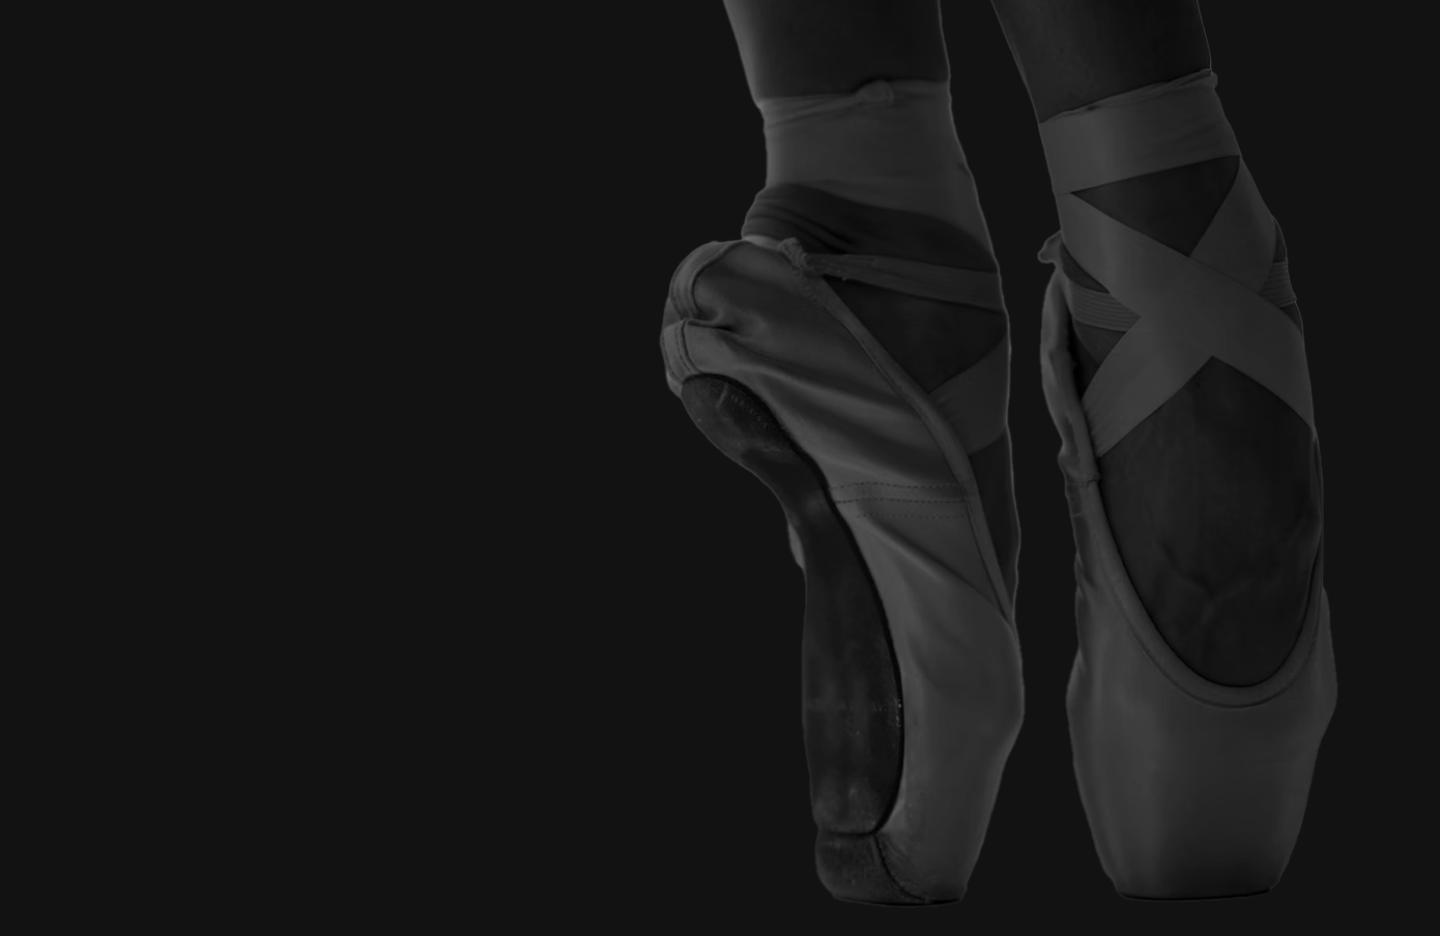
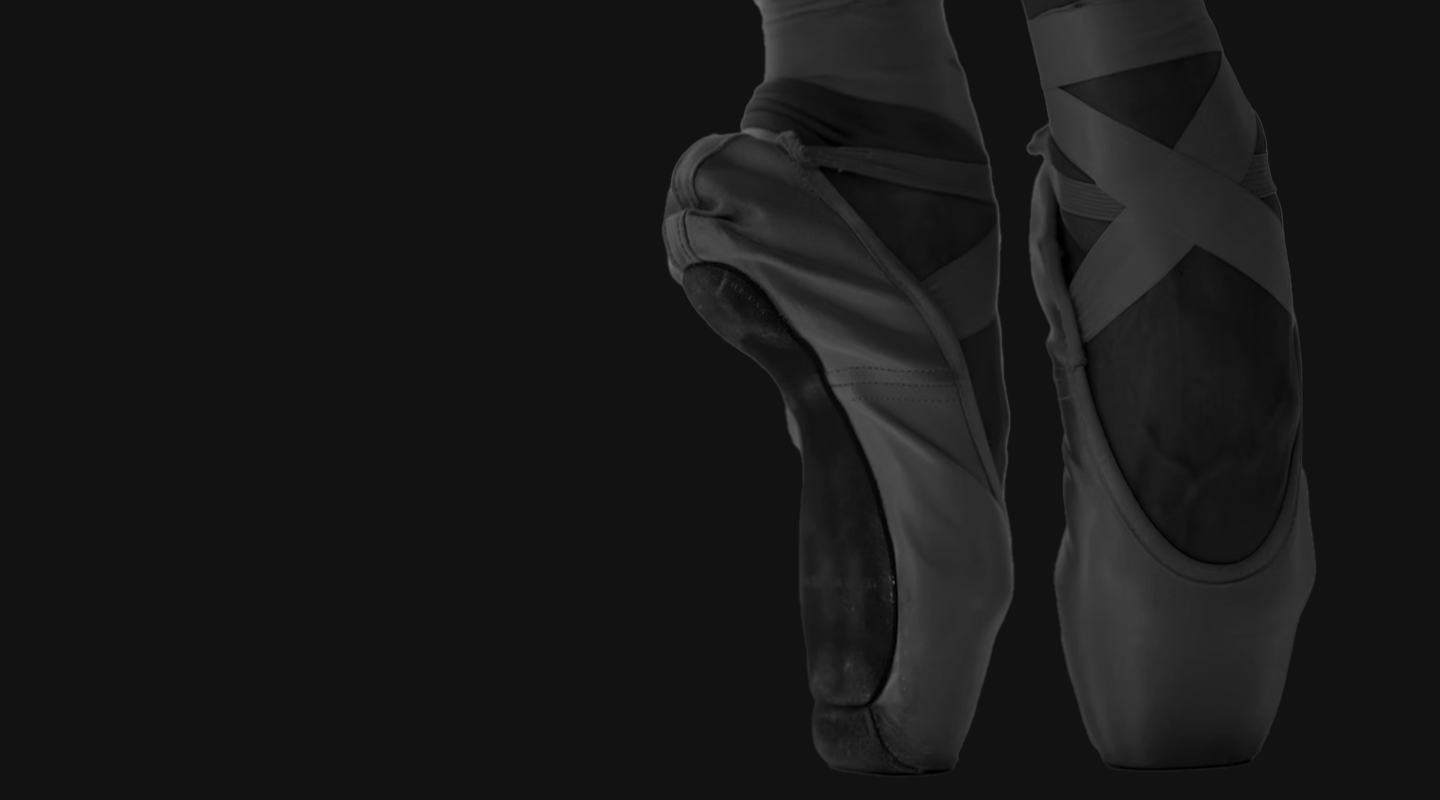
next

diff --git a/index.html b/index.html
@@ -9,38 +9,88 @@
 </head>
 <body>
     <main>
-        <div class="container">
-            <header>
-                <div class="header">
-                    <img src="img/logo.svg" alt="logo">
-                    <ul class="menu">
-                        <li>
-                            <a href="#">Преимущества</a>
-                        </li>
-                        <li>
-                            <a href="#">О нас</a>
-                        </li>
-                        <li>
-                            <a href="#">Педагоги</a>
-                        </li>
-                        <li>
-                            <a href="#">Обучение</a>
-                        </li>
-                        <li>
-                            <a href="#">Прайс</a>
-                        </li>
-                        <li>
-                            <a href="#">Отзывы</a>
-                        </li>
-                    </ul>
+        <header>
+            <div class="header">
+                <img src="img/logo.svg" alt="logo">
+                <ul class="menu">
+                    <li>
+                        <a href="#">Преимущества</a>
+                    </li>
+                    <li>
+                        <a href="#">О нас</a>
+                    </li>
+                    <li>
+                        <a href="#">Педагоги</a>
+                    </li>
+                    <li>
+                        <a href="#">Обучение</a>
+                    </li>
+                    <li>
+                        <a href="#">Прайс</a>
+                    </li>
+                    <li>
+                        <a href="#">Отзывы</a>
+                    </li>
+                </ul>
+            </div>
+            <div class="text-ballet">
+                <h1> Балет - это вселенная воображения, <br>место волшебства и очарования, <br>красоты и романтики</h1>
+                <button>Записаться</button>
+                <p>*Просмотр - бесплатно</p>
+            </div>
+        </header>
+        <section class="advantages">
+            <h2>Преимущества</h2>
+            <div class="content">
+                <div class="left">
+                    <div class="adv-pt">
+                        <img src="img/icon.svg" alt="">
+                        <div>
+                            <h3>Адаптация и дисциплина</h3>
+                            <p>Наши педагоги заинтересуют малыша и помогут <br>ему адаптироваться к занятиям без стресса <br>и переживаний. </p>
+                        </div>
+                    </div>  
+                    <div class="adv-pt">
+                        <img src="img/icon.svg" alt="">
+                        <div>
+                            <h3>Профессиональные педагоги</h3>
+                            <p>Наши педагоги влюблены в балет и получают искреннее наслаждение от работы с детьми. </p>
+                        </div>
+                    </div>
+                    <div class="adv-pt">
+                        <img src="img/icon.svg" alt="">
+                        <div>
+                            <h3>Возможность продолжить обучене</h3>
+                            <p>Если вы уже занимались балетом в других школах или у вас был перерыв, вы можете прийти на бесплатный просмотр и мы подберем для вас подходящую группу. </p>
+                        </div>
+                    </div>
                 </div>
-                <div class="text-ballet">
-                    <h1> Балет - это вселенная воображения, <br>место волшебства и очарования, <br>красоты и романтики</h1>
-                    <button><p>Записаться</p></button>
-                    <p></p>
+                <div class="line"></div>
+                <div class="right">
+                    <div class="adv-pt">
+                        <img src="img/icon.svg" alt="">
+                        <div>
+                            <h3>Индивидуальный подход</h3>
+                            <p>В группах не больше 10-12 человек. В небольших группах педагог имеет возможность найти индивидуальный подход к кажному ученику. </p>
+                        </div>
+                    </div>  
+                    <div class="adv-pt">
+                        <img src="img/icon.svg" alt="">
+                        <div>
+                            <h3>Балетный лагерь </h3>
+                            <p>В нашей школе часто проводятся летние лагери в других городах и даже странах.</p>
+                        </div>
+                    </div>
+                    <div class="adv-pt">
+                        <img src="img/icon.svg" alt="">
+                        <div>
+                            <h3>Лучший фундамент для любых танцев в будущем</h3>
+                            <p>Занятия развивают координацию, укрепляют мышечный скелет, формируют правильную осанку и прививают чувство ритма! </p>
+                        </div>
+                    </div>
                 </div>
-            </header>
-        </div>
+            </div>
+        </section>
     </main>
 </body>
 </html>

diff --git a/css/style.css b/css/style.css
@@ -1,14 +1,23 @@
-@import url('https://fonts.googleapis.com/css2?family=DM+Sans:wght@400;500&family=Playfair+Display:ital,wght@0,400;0,500;0,800;1,400&display=swap');
+@import url('https://fonts.googleapis.com/css2?family=Playfair+Display:ital,wght@0,400;0,500;0,800;1,400&display=swap');
+@import url('https://fonts.googleapis.com/css2?family=Open+Sans:wght@400;500&display=swap');
+
+
 
 * {
     margin: 0;
     padding: 0;
+    font-family: 'Open Sans';
+    box-sizing: border-box;
 }
 
 header {
     width: 100%;
-    height: 936px;
+    height: 800px;
     background-image: url(../img/fon.png);
+    background-size: contain;
+    background-color: #121212;
+    background-position: right top;
+    background-repeat: no-repeat;
 }
 
 header ul {
@@ -26,10 +35,7 @@ header ul {
 }
 
 header ul li a {
-    font-family: 'DM Sans';
     text-decoration: none;
-    font-style: normal;
-    font-weight: 400;
     font-size: 18px;
     line-height: 16px;
     color: #FFF4F5;
@@ -47,8 +53,8 @@ header ul li a {
 }
 
 h1 {
-    padding-top: 200px;
-    padding-bottom: 60px;
+    margin-top: 200px;
+    margin-bottom: 60px;
     width: 755px;
     height: 168px;
     font-family: 'Playfair Display';
@@ -69,20 +75,105 @@ button {
     align-items: center;
     justify-content: center;
     border-radius: 4px;
-    font-family: 'DM Sans';
-    font-style: normal;
+    display: flex;
+    border: none;
     font-weight: 500;
     font-size: 18px;
     line-height: 16px;
-    display: flex;
-    align-items: center;
-    text-align: center;
-    border: none;
-    color: #211D1D;
 }
 
- .text-ballet {
+.text-ballet {
     padding-left: 10%;
  }
 
- 
+.text-ballet p {
+    font-weight: 400;
+    font-size: 16px;
+    line-height: 21px;
+    color: #A79798;
+    padding-left: 10%;
+    padding-top: 10px;
+ }
+
+.advantages {
+    background-color: rgba(235, 214, 216, 0.8);;
+    height: 910px;
+}
+
+.advantages h2{
+    font-family: 'Playfair Display';
+    font-style: normal;
+    font-weight: 800;
+    font-size: 48px;
+    line-height: 48px;
+    text-align: center;
+    color: #211D1D;
+    padding-top: 160px;
+}
+
+h3 {
+    font-family: 'Playfair Display';
+    font-style: normal;
+    font-weight: 500;
+    font-size: 32px;
+    line-height: 40px;
+    display: flex;
+    align-items: center;
+    
+    color: #211D1D;
+}
+
+p {
+    font-family: 'Open Sans';
+    font-style: normal;
+    font-weight: 400;
+    font-size: 16px;
+    margin-top: 10px;
+
+    color: #211D1D;
+}
+
+.content {
+    width: 80%;
+    align-items: center;
+    justify-content: space-between;
+    display: flex;
+    flex-direction: row;
+    margin: 0 auto;
+    padding-top: 80px;
+}
+
+.left, .right {
+    height: 462px;
+    display: flex;
+    flex-direction: column;
+    justify-content: space-between;
+}
+
+.left {
+    margin-left: 10px;
+}
+div.line
+{
+    width: 2px;
+    height: 462px;
+    background:  #211D1D;
+    position: relative;
+    z-index: 2;
+}
+
+.right {
+    margin-right: 10px;
+}
+
+.adv-pt {
+    flex-direction: row;
+    display: flex;
+    width: 579px;
+}
+
+.adv-pt img {
+    margin-right: 40px;
+}
+
+
